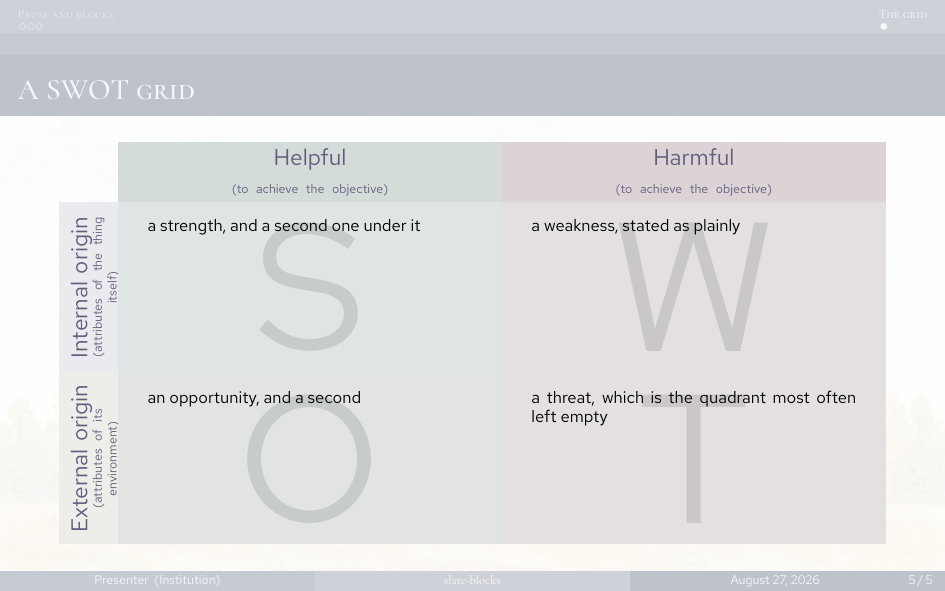
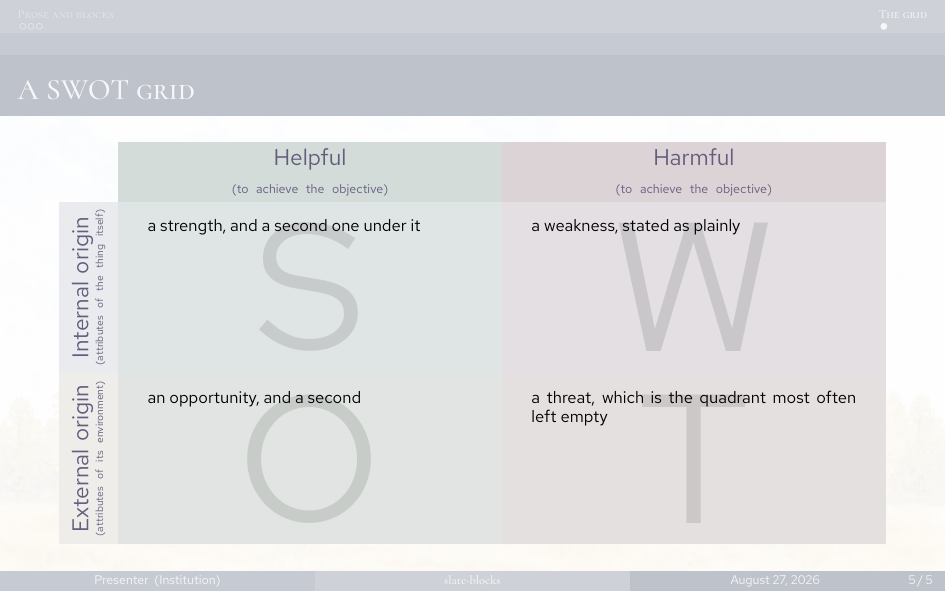
Set the rotated SWOT notes at 5pt; the log is finally clean
One point smaller than \tiny on the two rotated axis notes, and both
./check.sh and ./check.sh demo now report nothing at all, under either
document. That is the first time this template has built silently.

The warning was never the raster. Two commits ago it was traced to this
note being too wide for its parbox; what was still wrong was the proposed
remedy — README.md said the box could be widened far enough to swallow it
at the cost of a \vbox. It cannot. Measured at 2.7cm, 2.9cm and 3.0cm the
\hbox holds at 6.24pt without moving a hair, and by 2.9cm the \vbox has
arrived anyway, because the parbox is rotated and its width is the
label's height. The box is not a lever.

The only lever is narrower text, and it has two settings: fewer words or
smaller words. midcentury-olive/ took the first years ago and says "(of
the thing itself)" — which is also why the two templates have been
carrying different axis wording without anyone deciding they should.
This takes the second and keeps the sentence.

It also just looks better. At 6pt the note wrapped to two cramped lines
beside the axis name; at 5pt it is one line running parallel to it, and
the label is two lines rather than three.

The horizontal Helpful/Harmful notes stay at \tiny. They have a whole
column's width and nothing to gain.

Changed region(s): [[0.0614, 0.6396, 0.1228, 0.9137], [0.0614, 0.3655, 0.1228, 0.6091]]

diff --git a/slate-blocks/style.tex b/slate-blocks/style.tex
@@ -401,10 +401,28 @@
 % The letter watermarked in each quadrant is the tcolorbox colour name. That is
 % deliberate — it labels the quadrant without spending a line on a heading.
 % -----------------------------------------------------------------------------
+% The two ROTATED notes are set at 5pt rather than \tiny, which is 6pt here.
+% That one point is what finally cleared the Overfull \hbox this grid had
+% reported since it was written — the log is now empty for the first time.
+%
+% Widening the parbox does not do it. Tried: the warning holds at 6.24pt at
+% 2.7cm, 2.9cm and 3.0cm without moving a hair, and by 2.9cm an Overfull \vbox
+% appears instead, because the parbox width is the rotated label's height.
+% Only making the text narrower works, and there are exactly two ways to do
+% that — fewer words or smaller words. midcentury-olive/ took the first and
+% says "(of the thing itself)"; this takes the second and keeps the wording.
+%
+% Worth the point: at 6pt the note wrapped to two lines and sat cramped beside
+% the axis name. At 5pt it is one line running parallel to it, which is both
+% tidier and what makes the label two lines rather than three.
+%
+% The HORIZONTAL notes stay at \tiny. They have the full width of a column and
+% no reason to shrink.
+\newcommand{\swotAxisNote}{\fontsize{5}{6}\selectfont}
 \newcommand{\swotAxisHelpful}{Helpful\par\tiny (to achieve the objective)}
 \newcommand{\swotAxisHarmful}{Harmful\par\tiny (to achieve the objective)}
-\newcommand{\swotAxisInternal}{Internal origin\\\tiny (attributes of the thing itself)}
-\newcommand{\swotAxisExternal}{External origin\\\tiny (attributes of its environment)}
+\newcommand{\swotAxisInternal}{Internal origin\\\swotAxisNote (attributes of the thing itself)}
+\newcommand{\swotAxisExternal}{External origin\\\swotAxisNote (attributes of its environment)}
 
 \newcommand{\swot}[4]{%
   \begin{center}
@@ -437,15 +455,13 @@
     % is NOT a reliable check — it under-reported by enough to look safe at
     % 2.5cm when it was not. Build the deck and look at the page.
     %
-    % WHILE HERE — the deck's one standing Overfull \hbox is explained, though
-    % not fixed. README.md called it a phantom of the raster, on the grounds
-    % that narrowing the quadrant boxes never moved it. It is not the
-    % quadrants: it is the \tiny parenthetical in THIS parbox, which is wider
-    % than the box whatever the box is set to within reach. Widening far enough
-    % to silence it (3.2cm) costs an Overfull \vbox of about 16pt instead,
-    % because the parbox width is the rotated label's height and the grid then
-    % no longer fits the frame. The remaining few points have to come from
-    % shorter axis text, not from this number.
+    % WHILE HERE — the Overfull \hbox this grid used to report is gone, and it
+    % was never what README.md said it was. It called it a phantom of the
+    % raster, on the grounds that narrowing the quadrant boxes never moved it.
+    % That evidence was sound and the conclusion was wrong: it was the note in
+    % THIS parbox, too wide for its box. Widening the box does not help — see
+    % the note above \swotAxisNote — so the note is set a point smaller, and
+    % the log is clean.
     \tcbitem[swotfirstcol=swotInternal]
       {\rotatebox[origin=c]{90}{\parbox[t]{2.7cm}{\centering
         \color{swotInk}\swotAxisInternal\par}}}

diff --git a/slate-blocks/README.md b/slate-blocks/README.md
@@ -221,25 +221,28 @@ not already white.
 
 ## Noise in the log
 
-The SWOT page reports one `Overfull \hbox` of about seven points. This README
-used to call it a phantom of the raster, on the evidence that narrowing the
-quadrant boxes at four different widths never moved it. That evidence was
-sound and the conclusion was wrong: it is not the quadrants, it is the `\tiny`
-parenthetical in the rotated axis label, which overruns the 71.1pt `\parbox`
-it is set in. A number that does not move when you change one thing may still
-be measuring another. It moves when you change the right thing: the same
-warning changes with every change of face, because it is a piece of text that
-is too wide for its box.
+There is none. `./check.sh` and `./check.sh demo` both report nothing, under
+either document, which took a while to arrive at.
 
-It is explained but not fixed, because the obvious fix trades it for a worse
-warning. Widening that `\parbox` to 3.2cm silences the `\hbox` and produces an
-`Overfull \vbox` of 16.5pt instead — the parbox is rotated, so its width is the
-label's height, and the grid stops fitting the frame. The ceiling is about
-2.62cm; the label wants 2.73cm. Closing the last three points means shorter
-axis text, not a bigger box.
+This README used to describe a standing `Overfull \hbox` on the SWOT page as a
+phantom of the raster, on the evidence that narrowing the quadrant boxes at
+four different widths never moved it. The evidence was sound and the
+conclusion was wrong. It was never the quadrants: it was the parenthetical
+note in the rotated axis label, too wide for the `\parbox` it sits in. A
+number that does not move when you change one thing may still be measuring
+another.
 
-The report that matters is the first section, *frames whose content is too
-tall*, and that one is exact.
+Widening the box does not fix it — the warning holds at 6.24pt at 2.7cm, 2.9cm
+and 3.0cm without moving, and by 2.9cm an `Overfull \vbox` appears instead,
+because the parbox is rotated and its width is the label's height. The only
+lever is making the text narrower, and there are two ways: fewer words or
+smaller words. `midcentury-olive/` took the first and says "(of the thing
+itself)". Here the note is set at 5pt instead of `\tiny`'s 6pt, which keeps
+the wording and, as it turns out, looks better — at 6pt it wrapped to two
+cramped lines, at 5pt it is one line running parallel to the axis name.
+
+If a warning does appear, the section that matters is the first one, *frames
+whose content is too tall*. That one is exact.
 
 ## What is in `style.tex`
 
